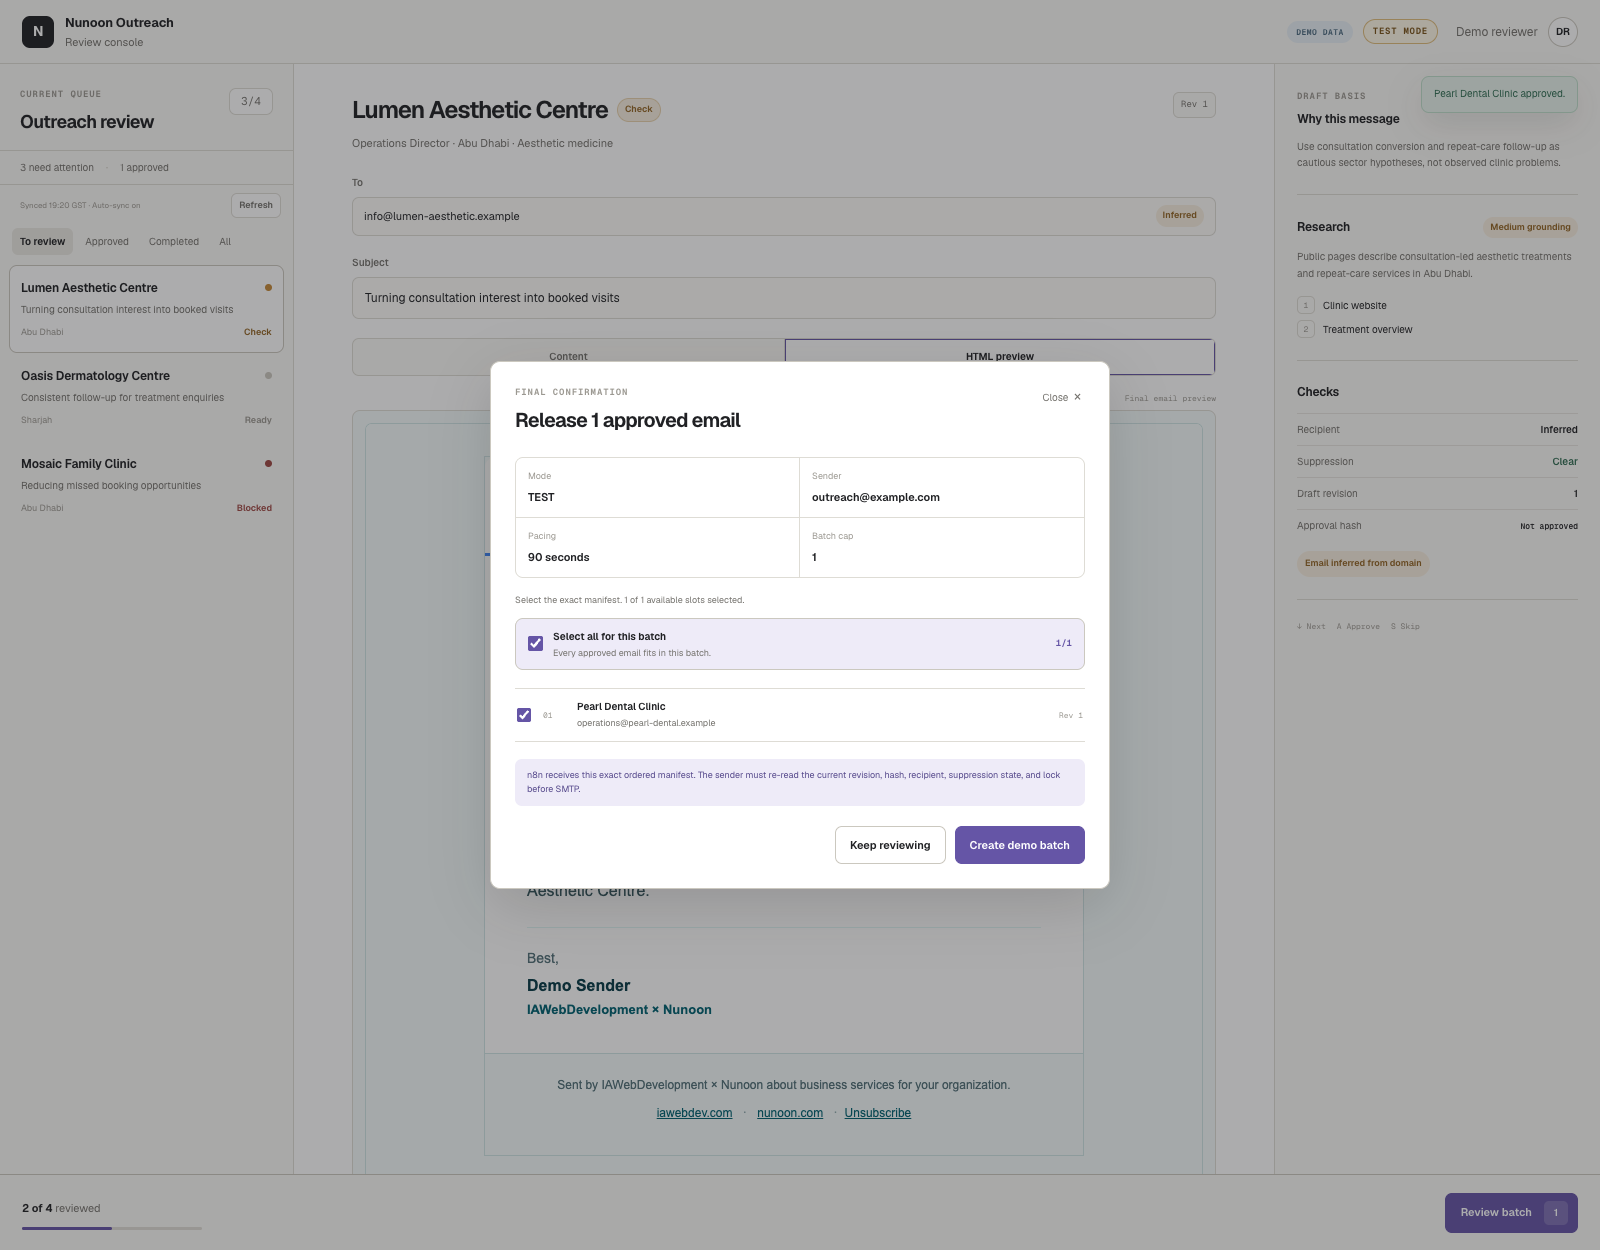
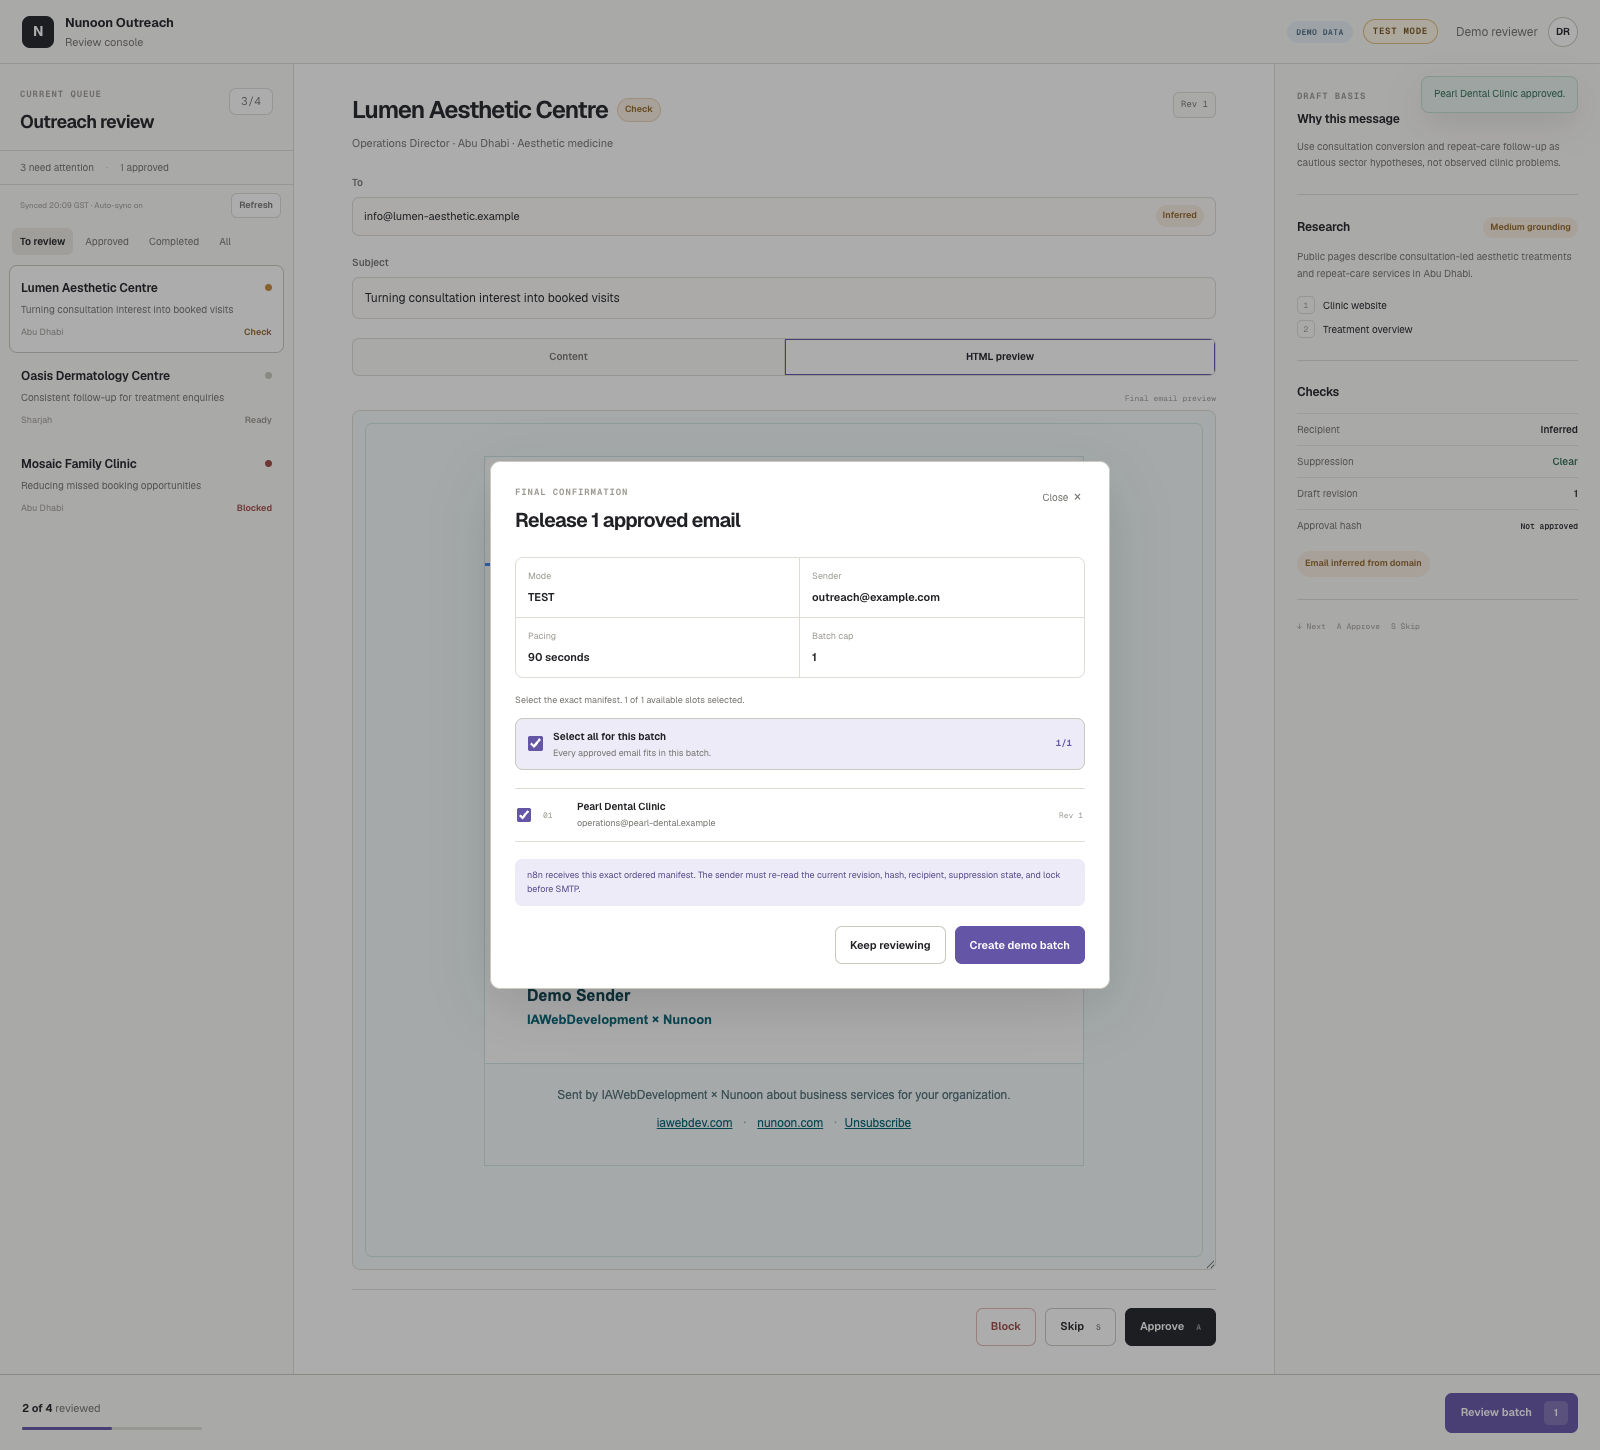
Replace incomplete README screenshots with fully loaded email previews

diff --git a/docs/validation.md b/docs/validation.md
@@ -19,7 +19,9 @@ Checked on 1 October 2026 against this sanitized public copy.
 
 The frontend build and all 16 existing tests passed together after the README was added. The sender release gate compiles the generated Code nodes and checks graph, snapshot, suppression, finalization, and runtime integrity fixtures without contacting n8n.
 
-The screenshots were captured at a 1600 × 1250 desktop viewport with an already-installed Playwright Chromium browser. The Chrome extension blocked local preview URLs, so the browser check used the installed Playwright runtime. No live queue, mailbox, or credentials were used.
+The screenshots were captured at 1600 × 1000 (draft editor) and 1600 × 1450 (preview and confirmation) desktop viewports with an already-installed Playwright Chromium browser. The Chrome extension blocked local preview URLs, so the browser check used the installed Playwright runtime. No live queue, mailbox, or credentials were used.
+
+The corrected screenshots wait for the iframe greeting, message, signature, and unsubscribe footer, all three logo images, fonts, and entrance animations before capture. Both email previews were checked for internal clipping, and all three screenshots were inspected visually before publication.
 
 The confirmed demo batch displayed: TEST mode, one recipient, a batch cap of one, and 90-second pacing. The resulting UI confirmed that the batch was created locally and n8n was not contacted.
 

diff --git a/README.md b/README.md
@@ -25,7 +25,7 @@ These are screenshots of the real frontend running locally in **DEMO DATA / TEST
 
 ### Email preview
 
-![Sandboxed preview of the rendered branded email](docs/screenshots/email-preview.png)
+![Complete sandboxed email preview with logos, message, signature, and footer](docs/screenshots/email-preview-complete.png)
 
 ### Batch confirmation
 
